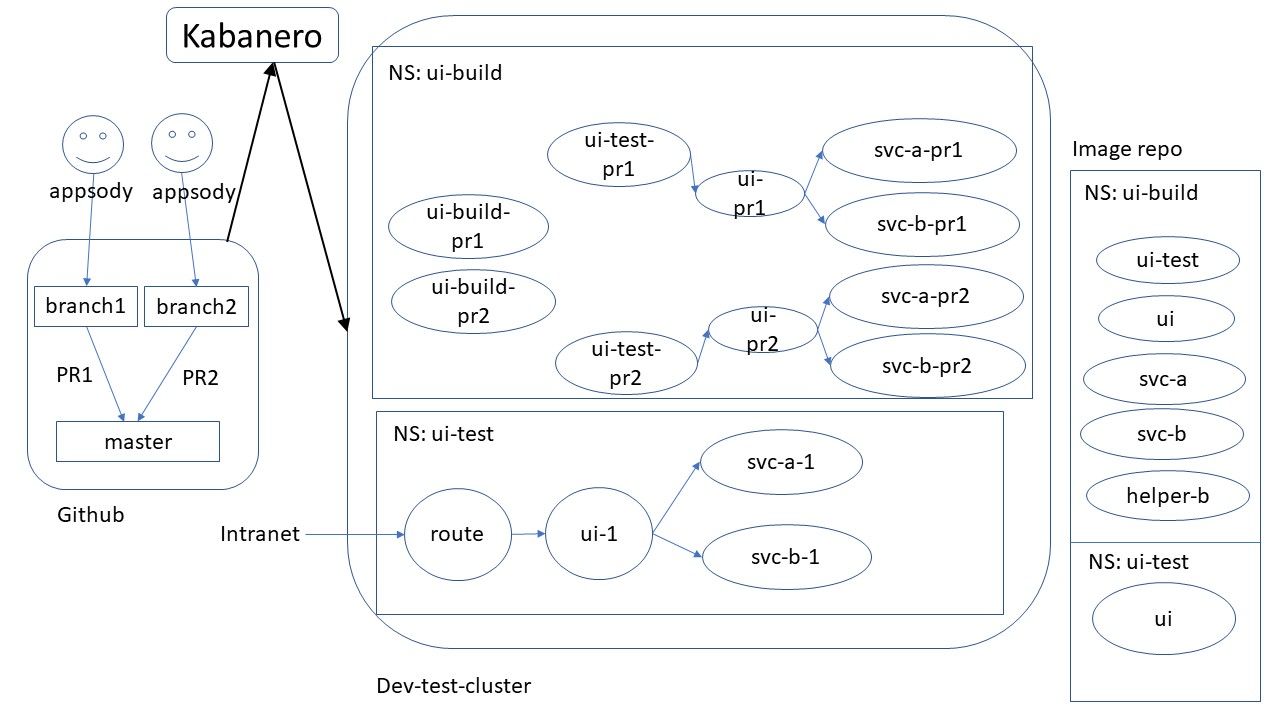
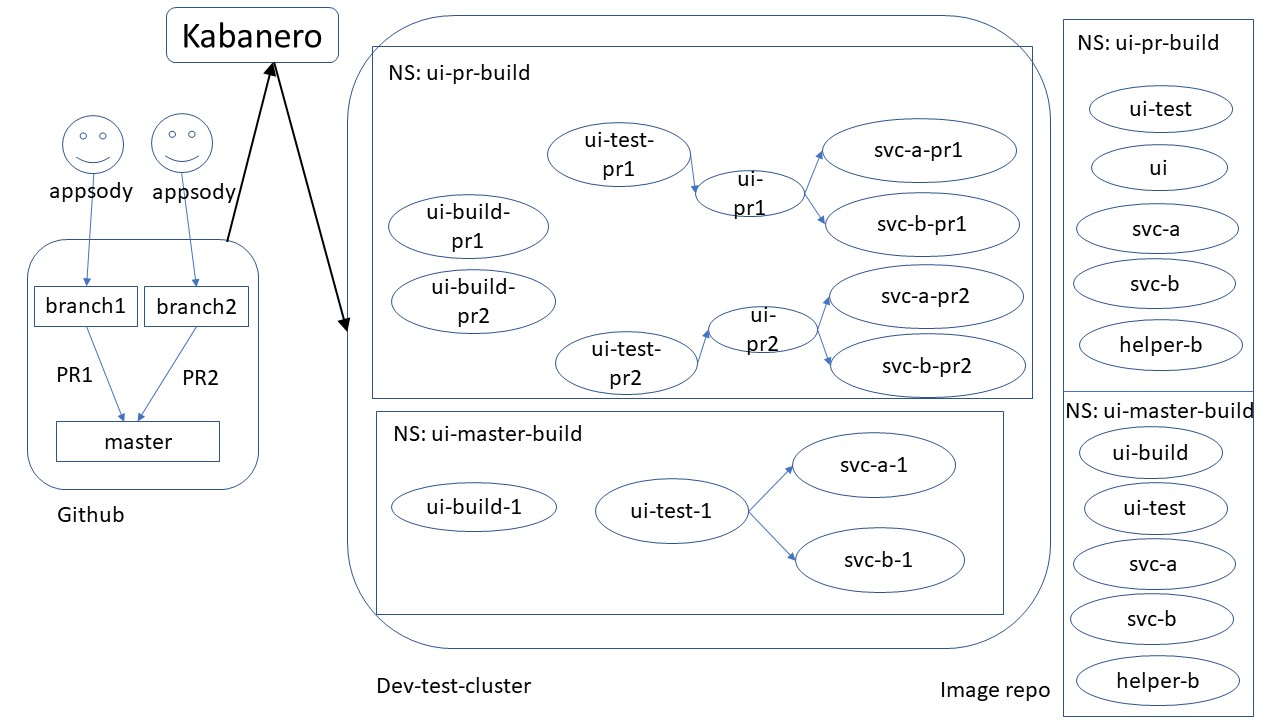
update README

diff --git a/architecture/README.md b/architecture/README.md
@@ -79,7 +79,7 @@ In order to ensure the design is extensible,  the remainder of this document cov
 <a name="Usage_Scenarios"></a>
 ## Usage Scenarios
 
-This section captures the usage scenarios, from which we can derive the event types, and producers and consumers of events. We begin with a sample production environment consisting of 3 different applications/services. This is followed by discussion on the devops pipeline that produces the production environment.
+This section captures the usage scenarios, from which we can derive the functional specification. We begin with a sample production environment consisting of 3 different applications/services. This is followed by discussion on the devops pipeline that produces the production environment. Note that the usage scenarios presented in this section are not recommendations. They are meant to capture a variety of scenarios to ensure the functional specification is sufficiently useful.
 
 ### The Production Environment
 
@@ -95,7 +95,7 @@ The third and final application is a microservice svc-b. It is deployed in the n
 
 ### Usage Scenarios for ui
 
-The `UI` application example is meant as a continuous deployment sample, where code in the `master` branch is always ready to deploy. It follows a true cloud-native development process:
+The `UI` application example is meant as a continuous deployment sample, where code in the `master` branch is always ready to deploy, and for this example, always deployed immediately. It follows a true cloud-native development process:
 -  It uses Github or Github Enterprise as the source repository.  
 - It uses the Github branching strategy:
   - Developers are required to create branches for all source code changes.
@@ -105,7 +105,7 @@ The `UI` application example is meant as a continuous deployment sample, where c
 - A test build is triggered automatically for each pull request, and whenever a new commit is added to the pull request. Developer is not allowed to merge code without code review and successful test build. 
 - The test build also runs automated tests.
 - Developers use Appsody on their local machines as development environment.
-- Additional manual exploratory testing may be performed with the latest application deployed to the `ui-test` namespace.
+- Builds from the `master` branch are automatically triggered when a Pull Request is merged into the `master` branch. If successfully, the new image is automatically deployed to production.
 
 
 The pipeline is shown below:
@@ -120,9 +120,9 @@ For the `ui` application, the developers use appsody as their local development 
 The architect creates the Tekton Pipeline and Tasks for the `ui` application. This involves:
 - Using any existing pipelines and tasks that may already be available for building node.js applications as the basis to create a new pipeline.
 - Using any existing pipeline tasks for interacting with Github:
-  - When build is kicked off, update the Github status check with a warning that build is on-going, to prevent the user from merging code. (**TBD**: Is this part of Tekton or Kabanero?)
-  - When build is successful,  Pipeline Tasks are used to install `ui-test`, `ui`, `svc-a` and `svc-b` images, and run the `ui-test` verification test.
-- The last task of the pipeline is to record the github status and how to access the build. (**TBD:** Is this possible with Tekton, or is this handled by Kabanero?)
+  - When build is kicked off, update the Github status check with a warning that build is on-going, to prevent the user from merging code. 
+  - When build is successful,  additional Pipeline Tasks are used to install `ui-test`, `ui`, `svc-a` and `svc-b` images, and run the `ui-test` verification test.
+- The last step of the pipeline is to record the github status and how to access the build. 
    - successful if all tasks succeed.
    - fail if some tasks fails
 
@@ -144,12 +144,11 @@ The architect configures Kabanero what actions to take for pull request on an `u
   - Option to Record Github status check for test build.
 - Output: Docker
   - image location
-**TBD**: Come up with reasonable defaults.
 
-**TBD**: It seems that official deployment from `master` requires a new build from `master`. This does not detract from the discussion, but we do need to add these to the workflow:
-- A new commit into `master` triggers a new build. In theory, this build should succeed. 
-- The new image is tagged.
-- This triggers the pipeline for `ui-test` to run, deploying the new image.
+The architect provides a second pipeline for building from the `master` branch. This pipeline is required to build the official image for production.
+- The trigger for the pipeline is a new commit to `master` branch.
+- If the build is successful, the new image is tagged as `latest`.
+- The image is automatically deployed to production once tagged.
 
 
 #### Usage Scenario for Developer
@@ -157,7 +156,9 @@ The architect configures Kabanero what actions to take for pull request on an `u
 Prerequisites for the Developers:
 - Developer installs Kabanero Client to local laptop/desktop
 - Developer installs Appsody on laptop/desktop.  (**TBD**: Is this a special version that knows where the standardized stacks are, or will it go to Kabanero to get the location)
-- For local testing, either there are stubs for svc-a and svc-b, or a working svc-a and svc-b service for local testing has been set up and made available for developers, or it is re-deployed for each new run of the build. (Which choice to pick is outside the scope of this document.)
+- For local testing, the example shows re-deployment of svc-a and svc-b for every build. Other options are possible:
+  - Use of stubs for svc-a and svc-b, 
+  - or a working svc-a and svc-b service for local testing has been set up and made available for developers
 
 The developer sets up a new environment for `ui` development as follows:
 - Developer creates a branch and clones the branch into local environment.
@@ -191,6 +192,9 @@ A built-in SourceRepository consumer listens for events on the SourceRepository 
 - **TBD**:  resource management:
    - Number of concurrent runs
    - Garbage collection to remove old runs.
+
+When code is merged into `master`, The Kabanero listener posts a Github Push event to the SoruceRepository topic. (**TBD**: or is it a variation of the PullRequest event?)
+- A new run of the pipeline is started
 
 ### Usage Scenarios for svc-a
 
